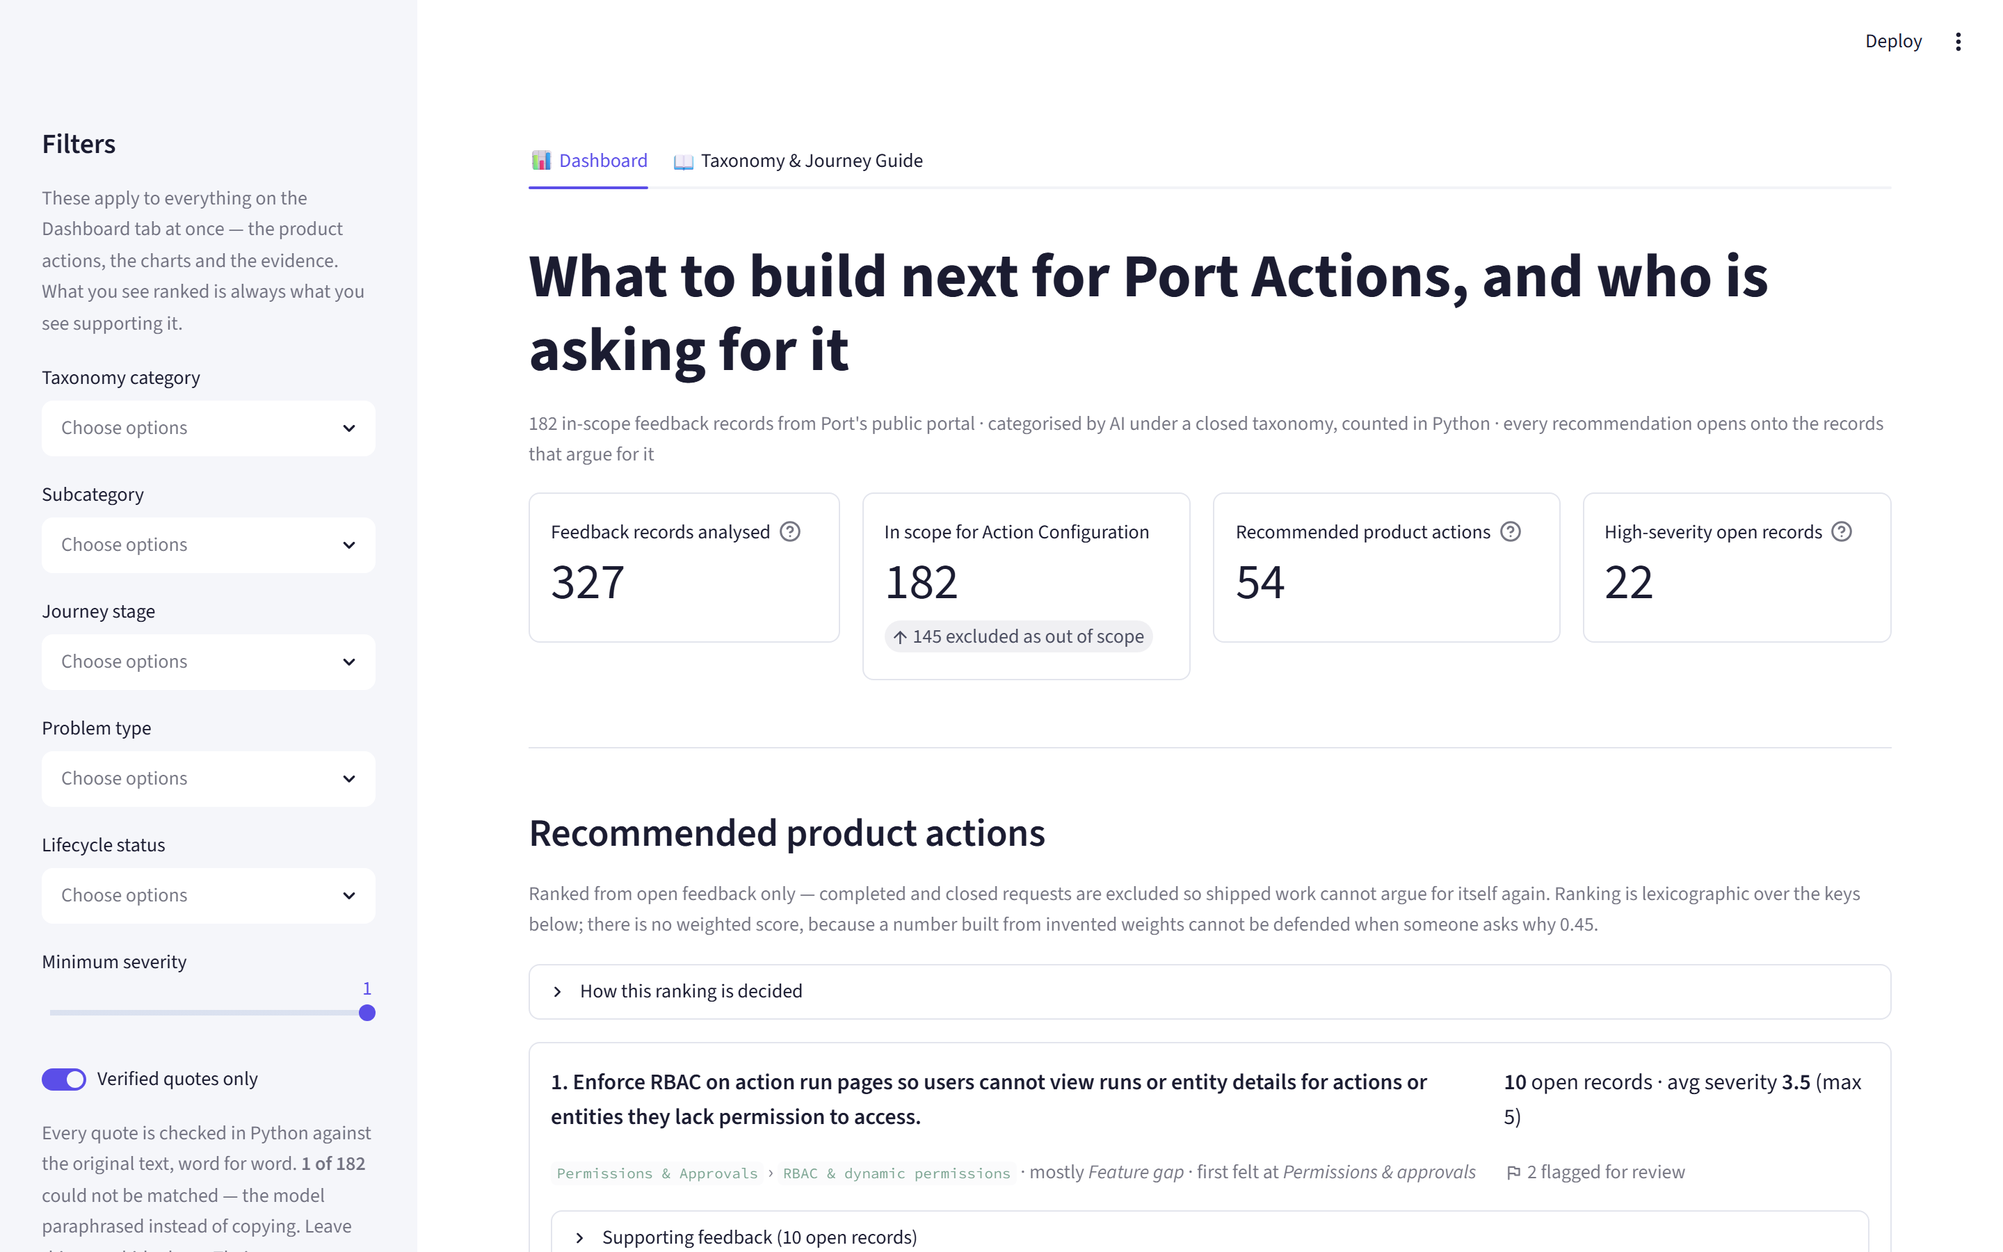
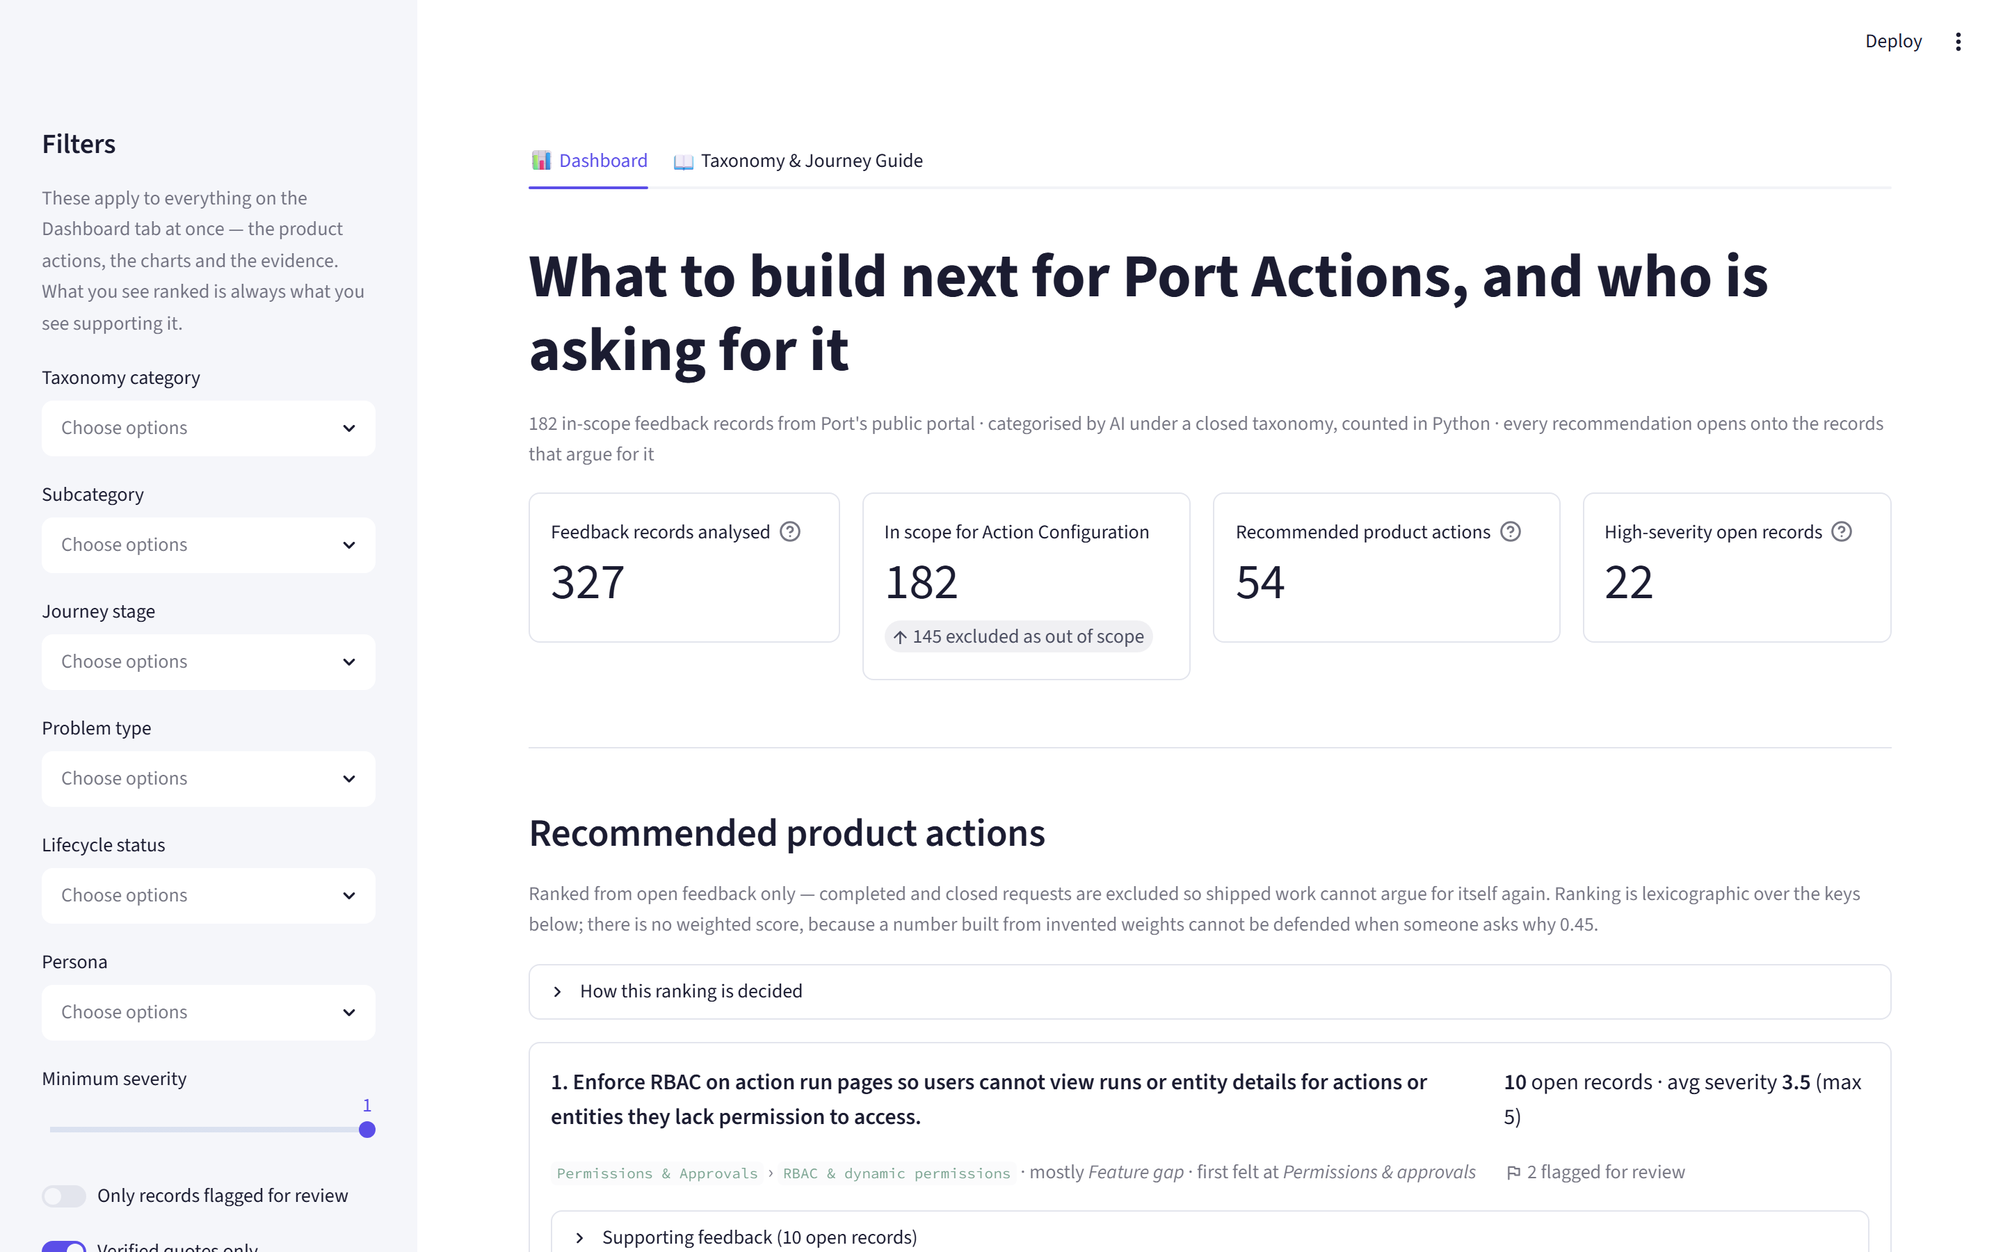
Surface persona and secondary assignments, which were classified but invisible
Two dimensions were being produced by the classifier and stored in the data,
then never shown anywhere in the app. 102 of 182 in-scope records carried a
secondary assignment that no user could see, which defeated the reason the
field exists: a permissions problem whose real complaint is a missing
explanation should be visible to both owners, and it was visible to neither.

Persona: sidebar filter, a distribution table, and a guide section. 109 records
come from Action builders, 37 from platform admins, 24 from developers, 10 from
approvers -- the same subcategory can be a builder's problem and a developer's
problem, and only this dimension separates them.

Secondary assignments: an 'also touches' column in the evidence explorer, and a
'primary owner vs. also implicated' table. Secondary mentions are counted in
their own column and never added to a primary total or a ranking, so a record
is still only ever counted once.

That table immediately earns its place. Invocation & Integrations owns 17
records but is named as a contributing area in 19; Validation & Rules owns 9
against 12. Both are being pulled into other areas' feedback more than they
generate their own -- a finding that a single-label taxonomy cannot express at
all.

Also added a 'flagged for review' filter, fixed subject-verb agreement when
more than one category is dragged, and fixed a screenshot anchor that matched
the page title instead of its section.

diff --git a/app.py b/app.py
@@ -39,6 +39,8 @@ from src.models.taxonomy import (
     CONFUSION_PAIRS,
     GLOSSARY,
     LIFECYCLE_STATUSES,
+    PERSONA_NAMES,
+    PERSONAS,
     PROBLEM_TYPE_NAMES,
     SEVERITY_SCALE,
     STAGE_GUIDE,
@@ -148,7 +150,13 @@ def sidebar_filters() -> tuple[pd.DataFrame, bool]:
             "Lifecycle status", [s for s in LIFECYCLE_STATUSES if s in present_status]
         )
 
+        present_personas = set(rel["persona"].dropna())
+        f_persona = st.multiselect(
+            "Persona", [p for p in PERSONA_NAMES if p in present_personas]
+        )
+
         f_sev = st.slider("Minimum severity", 1, 5, 1)
+        review_only = st.toggle("Only records flagged for review", value=False)
         verified_only = st.toggle("Verified quotes only", value=True)
 
         n_unverified = int((~rel["evidence_verified"]).sum())
@@ -187,6 +195,10 @@ def sidebar_filters() -> tuple[pd.DataFrame, bool]:
         view = view[view["problem_type"].isin(f_problem)]
     if f_status:
         view = view[view["lifecycle_status"].isin(f_status)]
+    if f_persona:
+        view = view[view["persona"].isin(f_persona)]
+    if review_only:
+        view = view[view["needs_human_review"]]
     view = view[view["severity"] >= f_sev]
     return view.copy(), verified_only
 
@@ -444,7 +456,89 @@ def render_dashboard() -> None:
 
     st.divider()
 
-    # ------------------------------------------------------- 6. Evidence
+    # --------------------------------------------- 6. Persona + secondaries
+    left, right = st.columns(2)
+
+    with left:
+        st.subheader("Who is asking")
+        st.caption(
+            "Persona is independent of product area. A builder blocked on "
+            "approval routing and a developer blocked on the same routing are "
+            "different product problems, and only this dimension separates them."
+        )
+        personas = (
+            view.groupby("persona")
+            .agg(records=("feedback_id", "count"),
+                 open_records=("is_open", "sum"),
+                 avg_severity=("severity", "mean"))
+            .reset_index()
+            .sort_values("records", ascending=False)
+        )
+        personas["avg_severity"] = personas["avg_severity"].round(1)
+        st.dataframe(
+            personas, hide_index=True, width="stretch",
+            column_config={
+                "persona": st.column_config.TextColumn("Persona", width="medium"),
+                "records": st.column_config.NumberColumn("Records", width="small"),
+                "open_records": st.column_config.NumberColumn("Open", width="small"),
+                "avg_severity": st.column_config.NumberColumn("Avg sev", width="small"),
+            },
+        )
+
+    with right:
+        st.subheader("Primary owner vs. also implicated")
+        st.caption(
+            "A record can name up to two further areas it touches. Secondary "
+            "mentions are counted here and **nowhere else** — they never enter a "
+            "primary total or a ranking, so a record is only ever counted once."
+        )
+        secondary_rows: list[str] = []
+        for extras in view["secondary_categories"]:
+            secondary_rows.extend(extras or [])
+        secondary_counts = pd.Series(secondary_rows).value_counts()
+
+        owner = (
+            view.groupby("primary_taxonomy_category")
+            .size().reset_index(name="primary")
+            .rename(columns={"primary_taxonomy_category": "category"})
+        )
+        owner["also_implicated"] = owner["category"].map(secondary_counts).fillna(0).astype(int)
+        # Categories that appear only as a secondary would be missing entirely.
+        extra_only = [c for c in secondary_counts.index if c not in set(owner["category"])]
+        if extra_only:
+            owner = pd.concat([owner, pd.DataFrame({
+                "category": extra_only, "primary": 0,
+                "also_implicated": [int(secondary_counts[c]) for c in extra_only],
+            })], ignore_index=True)
+        owner = owner.sort_values("primary", ascending=False)
+
+        st.dataframe(
+            owner, hide_index=True, width="stretch",
+            column_config={
+                "category": st.column_config.TextColumn("Category", width="medium"),
+                "primary": st.column_config.NumberColumn("Owns", width="small"),
+                "also_implicated": st.column_config.NumberColumn(
+                    "Also implicated", width="small"),
+            },
+        )
+
+        dragged = owner[owner["also_implicated"] > owner["primary"]]
+        if len(dragged):
+            names = [f"**{c}**" for c in dragged["category"]]
+            joined = (names[0] if len(names) == 1
+                      else " and ".join([", ".join(names[:-1]), names[-1]]))
+            plural = len(names) > 1
+            st.caption(
+                f":material/info: {joined} "
+                f"{'are' if plural else 'is'} named as a contributing area more "
+                f"often than {'they own' if plural else 'it owns'} a problem "
+                f"outright — being pulled into other areas' feedback rather than "
+                f"generating {'their' if plural else 'its'} own."
+            )
+
+    st.divider()
+
+    # ------------------------------------------------------- 7. Evidence
     st.subheader("Evidence explorer")
     st.caption(
         "Every figure above traces back to these records. Open any of them on "
@@ -453,14 +547,23 @@ def render_dashboard() -> None:
 
     ev_view = view[view["evidence_verified"]] if verified_only else view
     ev_view = ev_view.sort_values(
-        ["severity", "confidence"], ascending=[False, False])
+        ["severity", "confidence"], ascending=[False, False]).copy()
+    # Flatten the secondary pairs for display. Kept as text rather than a
+    # separate column per slot -- most records have none, and two sparse
+    # columns would read as missing data rather than as an empty list.
+    ev_view["also_touches"] = [
+        " · ".join(f"{c} › {s}" for c, s in zip(cats or [], subs or []))
+        for cats, subs in zip(ev_view["secondary_categories"],
+                              ev_view["secondary_subcategories"])
+    ]
 
     st.dataframe(
         ev_view[[
             "title", "short_summary", "suggested_product_action",
             "primary_taxonomy_category", "primary_taxonomy_subcategory",
-            "problem_type", "journey_stage", "lifecycle_status", "severity",
-            "confidence", "needs_human_review", "evidence_excerpt", "source_url",
+            "also_touches", "problem_type", "journey_stage", "persona",
+            "lifecycle_status", "severity", "confidence", "needs_human_review",
+            "evidence_excerpt", "source_url",
         ]],
         hide_index=True, width="stretch", height=420,
         column_config={
@@ -470,8 +573,12 @@ def render_dashboard() -> None:
                 "Suggested change", width="large"),
             "primary_taxonomy_category": st.column_config.TextColumn("Category"),
             "primary_taxonomy_subcategory": st.column_config.TextColumn("Subcategory"),
+            "also_touches": st.column_config.TextColumn(
+                "Also touches", width="medium",
+                help="Secondary areas. Never counted in any total or ranking."),
             "problem_type": st.column_config.TextColumn("Problem type"),
             "journey_stage": st.column_config.TextColumn("Journey stage"),
+            "persona": st.column_config.TextColumn("Persona", width="small"),
             "lifecycle_status": st.column_config.TextColumn("Status", width="small"),
             "severity": st.column_config.NumberColumn("Sev", width="small"),
             "confidence": st.column_config.NumberColumn("Conf", format="%.2f", width="small"),
@@ -701,6 +808,36 @@ def render_guide() -> None:
                "popular the request is and not how hard it would be to build.")
     for level in sorted(SEVERITY_SCALE, reverse=True):
         st.markdown(f"**{level}** — {SEVERITY_SCALE[level]}")
+
+    st.divider()
+
+    st.header("Personas")
+    st.caption(
+        "Who the feedback is coming from. Independent of everything above — the "
+        "same subcategory can be a builder's problem and a developer's problem, "
+        "and those are different things to fix."
+    )
+    persona_counts = rel["persona"].value_counts().to_dict()
+    for name, meaning in PERSONAS.items():
+        count = persona_counts.get(name, 0)
+        st.markdown(f"**{name}** — {meaning} *({count} record"
+                    f"{'s' if count != 1 else ''})*")
+
+    st.divider()
+
+    st.header("Secondary areas")
+    st.caption(
+        "A record names one primary area, and may name up to two more it also "
+        "touches. This exists so a permissions problem whose real complaint is "
+        "a missing explanation is visible to **both** teams. Secondary areas are "
+        "shown in the evidence table and counted in their own column — they "
+        "never enter a primary total or a ranking, so no record is counted twice."
+    )
+    with_secondary = int(rel["secondary_categories"].apply(lambda x: bool(x)).sum())
+    st.markdown(
+        f"**{with_secondary} of {len(rel)}** in-scope records name at least one "
+        f"secondary area."
+    )
 
     st.divider()
 

diff --git a/src/analysis/aggregate.py b/src/analysis/aggregate.py
@@ -34,6 +34,7 @@ import pandas as pd
 from ..models.taxonomy import (
     CATEGORY_NAMES,
     OPEN_STATUSES,
+    PERSONA_NAMES,
     PROBLEM_TYPE_NAMES,
     STAGE_NAMES,
 )
@@ -232,6 +233,46 @@ def problem_type_table(rel: pd.DataFrame) -> pd.DataFrame:
                          ascending=[False, True]).reset_index(drop=True)
 
 
+def persona_table(rel: pd.DataFrame) -> pd.DataFrame:
+    """Who is asking. Persona is independent of product area on purpose.
+
+    An Action builder blocked on approval routing and a developer blocked on
+    the same routing are different product problems even though they share a
+    subcategory, and only this dimension separates them.
+    """
+    g = rel.groupby("persona").agg(
+        records=("feedback_id", "count"),
+        open_records=("is_open", "sum"),
+        avg_severity=("severity", "mean"),
+    ).reset_index()
+    g = _pad(g, "persona", PERSONA_NAMES)
+    g["avg_severity"] = g["avg_severity"].round(2)
+    return g.sort_values(["records", "persona"],
+                         ascending=[False, True]).reset_index(drop=True)
+
+
+def secondary_table(rel: pd.DataFrame) -> pd.DataFrame:
+    """How often each category is implicated *without* being the primary.
+
+    A category with few primary records but many secondary mentions is a real
+    finding: it is being dragged into other teams' problems rather than owning
+    them. Kept in its own table, never added to the primary counts -- a record
+    is counted once, in one place, or the totals stop meaning anything.
+    """
+    rows: list[dict] = []
+    for categories in rel["secondary_categories"]:
+        for category in (categories or []):
+            rows.append({"category": category})
+    if not rows:
+        return pd.DataFrame({"category": list(CATEGORY_NAMES),
+                             "secondary_mentions": 0})
+    g = (pd.DataFrame(rows).groupby("category").size()
+         .reset_index(name="secondary_mentions"))
+    g = _pad(g, "category", CATEGORY_NAMES)
+    return g.sort_values(["secondary_mentions", "category"],
+                         ascending=[False, True]).reset_index(drop=True)
+
+
 def lifecycle_table(rel: pd.DataFrame) -> pd.DataFrame:
     g = rel.groupby("lifecycle_status").agg(
         records=("feedback_id", "count"),
@@ -281,6 +322,8 @@ def kpis(df: pd.DataFrame, rel: pd.DataFrame, actions: pd.DataFrame) -> dict:
                                         if len(actions) else ""),
         "subcategories_covered": int(subcats_seen),
         "records_needing_review": int(rel["needs_human_review"].sum()),
+        "records_with_secondary": int(
+            rel["secondary_categories"].apply(lambda x: bool(x)).sum()),
         "low_confidence_records": int((rel["confidence"] < LOW_CONFIDENCE).sum()),
         "unverified_evidence": int((~rel["evidence_verified"]).sum()),
         "source_systems": sorted(df["source_system"].unique().tolist()),
@@ -332,6 +375,8 @@ def build_all() -> dict:
         "subcategories": subcategory_table(rel).to_dict("records"),
         "stages": stage_table(rel).to_dict("records"),
         "problem_types": problem_type_table(rel).to_dict("records"),
+        "personas": persona_table(rel).to_dict("records"),
+        "secondary_mentions": secondary_table(rel).to_dict("records"),
         "lifecycle": lifecycle_table(rel).to_dict("records"),
         "evidence": {
             f"{r['category']}||{r['subcategory']}":

diff --git a/scripts/capture_screenshots.py b/scripts/capture_screenshots.py
@@ -28,11 +28,14 @@ SHOTS = [
     ("02-product-actions.png", 0, "Recommended product actions", 1100),
     ("03-categories.png", 0, "Where the problems concentrate", 900),
     ("04-journey.png", 0, "Where in the journey users get stuck", 900),
-    ("05-evidence.png", 0, "Evidence explorer", 800),
-    ("06-guide-intro.png", 1, "The four questions every record answers", 900),
-    ("07-guide-categories.png", 1, "The 11 categories", 900),
-    ("08-guide-stages.png", 1, "The 8 journey stages", 900),
-    ("09-guide-examples.png", 1, "Worked examples", 900),
+    # Anchored on the caption, not the "Who is asking" heading: the page title
+    # ends with "...and who is asking for it", so the heading text is not unique.
+    ("05-persona-secondary.png", 0, "Persona is independent of product area", 800),
+    ("06-evidence.png", 0, "Evidence explorer", 800),
+    ("07-guide-intro.png", 1, "The four questions every record answers", 900),
+    ("08-guide-categories.png", 1, "The 11 categories", 900),
+    ("09-guide-stages.png", 1, "The 8 journey stages", 900),
+    ("10-guide-examples.png", 1, "Worked examples", 900),
 ]
 
 # Streamlit tabs are divs, not buttons with role=tab.

diff --git a/README.md b/README.md
@@ -99,25 +99,29 @@ Two tabs. **Dashboard** — ranked product actions, each opening onto its suppor
 
 *Where friction falls across the eight stages of setting up an action, in chronological lifecycle order. Stages with no feedback are shown rather than dropped — an empty stage is a finding, not a gap in the chart.*
 
-![Evidence explorer](docs/screenshots/05-evidence.png)
+![Persona and secondary areas](docs/screenshots/05-persona-secondary.png)
+
+*Who is asking, and which areas get pulled into other areas' problems. **Invocation & Integrations owns 17 records but is named as a contributing area in 19**, and Validation & Rules owns 9 against 12 — both are dragged into other teams' feedback more than they generate their own. Secondary mentions are counted in their own column and never enter a primary total or a ranking, so no record is counted twice.*
+
+![Evidence explorer](docs/screenshots/06-evidence.png)
 
 *Every figure traces to these records: AI summary, suggested change, all four labels, and a verbatim quote with a clickable link to the original request on Port's portal.*
 
 ### Tab 2 — Taxonomy & Journey Guide
 
-![Guide introduction](docs/screenshots/06-guide-intro.png)
+![Guide introduction](docs/screenshots/07-guide-intro.png)
 
 *Explains what an Action is, why every record carries four independent labels rather than one, and how to place a record in four steps.*
 
-![Categories](docs/screenshots/07-guide-categories.png)
+![Categories](docs/screenshots/08-guide-categories.png)
 
 *All 11 categories and their 63 subcategories, each with a plain-language meaning, use-for triggers, an explicit do-not-use-when rule surfaced as a warning, real examples, and live record counts from the current dataset.*
 
-![Journey stages](docs/screenshots/08-guide-stages.png)
+![Journey stages](docs/screenshots/09-guide-stages.png)
 
 *The 8 stages as a numbered timeline in lifecycle order, each with what the user was trying to do and a live record count.*
 
-![Worked examples](docs/screenshots/09-guide-examples.png)
+![Worked examples](docs/screenshots/10-guide-examples.png)
 
 *Eight worked classification examples with the reasoning shown, plus the eight side-by-side pairs that are most commonly confused.*
 
@@ -193,6 +197,8 @@ A dynamic-permission failure belongs to **Permissions & Approvals** while its pr
 Stages are in chronological lifecycle order and mirror Port's own self-service flow, so a finding like *"friction concentrates in permissions and approvals"* points at a surface the team already owns.
 
 Each relevant record gets exactly **one** primary category/subcategory pair, one problem type and one stage. **At most two secondary assignments** are allowed for records that genuinely span areas — 102 of 182 carry one — and secondaries never affect any count or ranking, so adding one cannot inflate a total. Where a record could reasonably go two ways, thirteen documented tie-break rules decide, and residual uncertainty is reported through `confidence` and `needs_human_review` rather than hidden.
+
+**Persona** is a fifth independent dimension: 109 records come from Action builders, 37 from platform admins, 24 from developers, 10 from approvers. The same subcategory can be a builder's problem and a developer's problem, and only this dimension tells them apart.
 
 The app's second tab, **Taxonomy & Journey Guide**, explains all of this in plain language for readers with no software or DevOps background.
 
